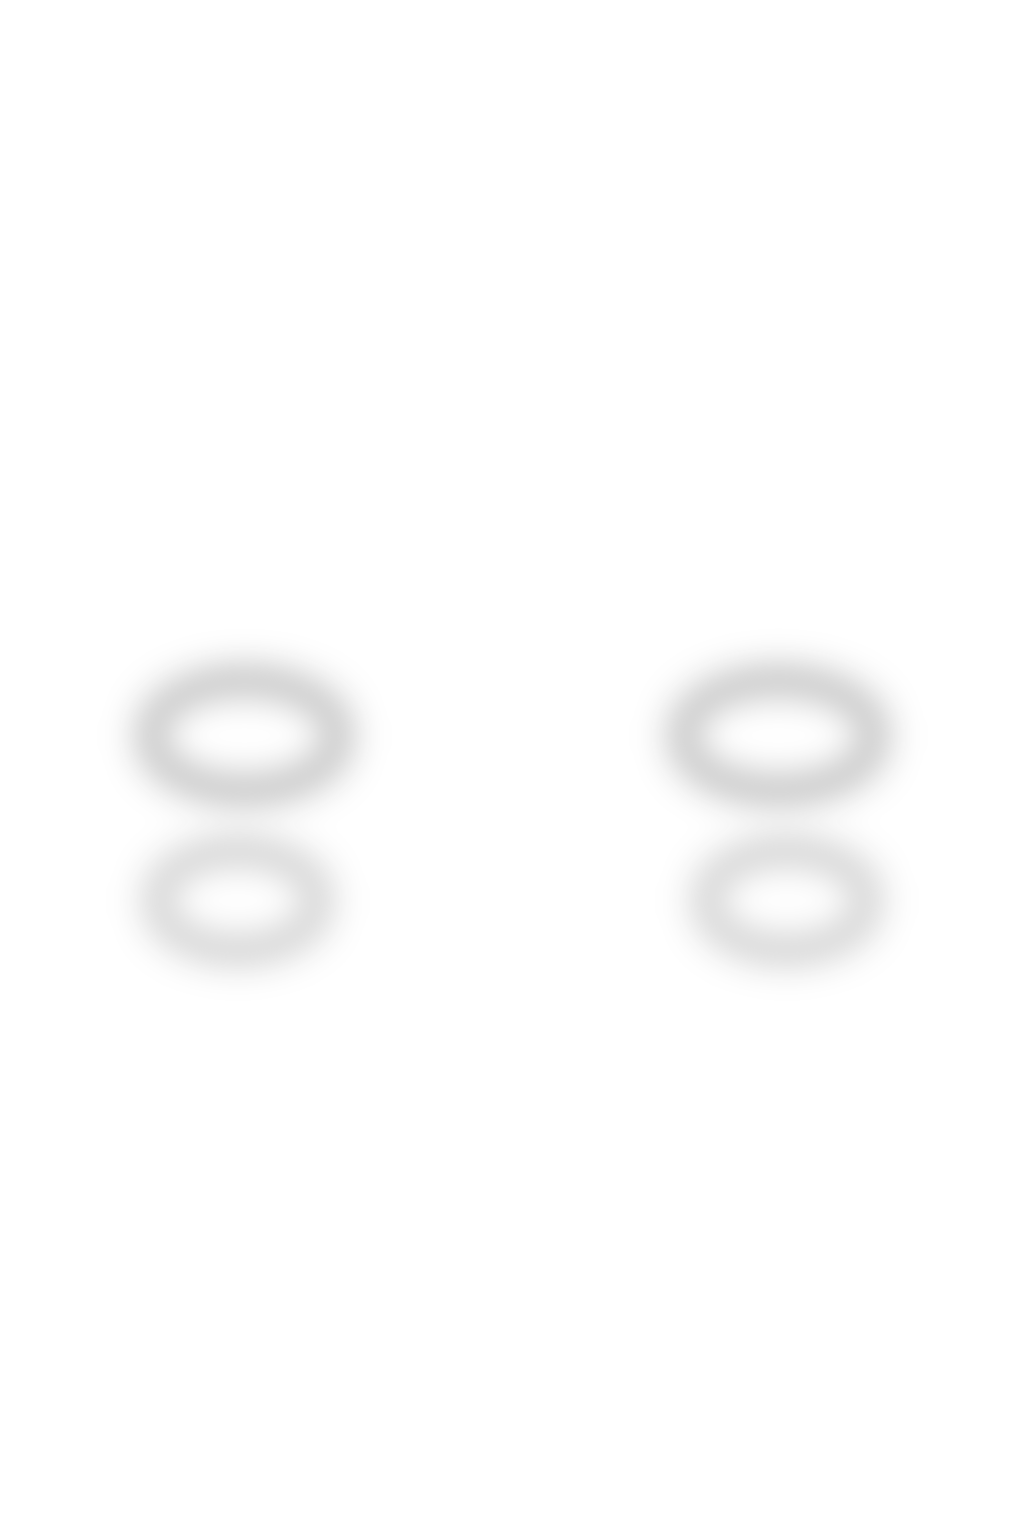
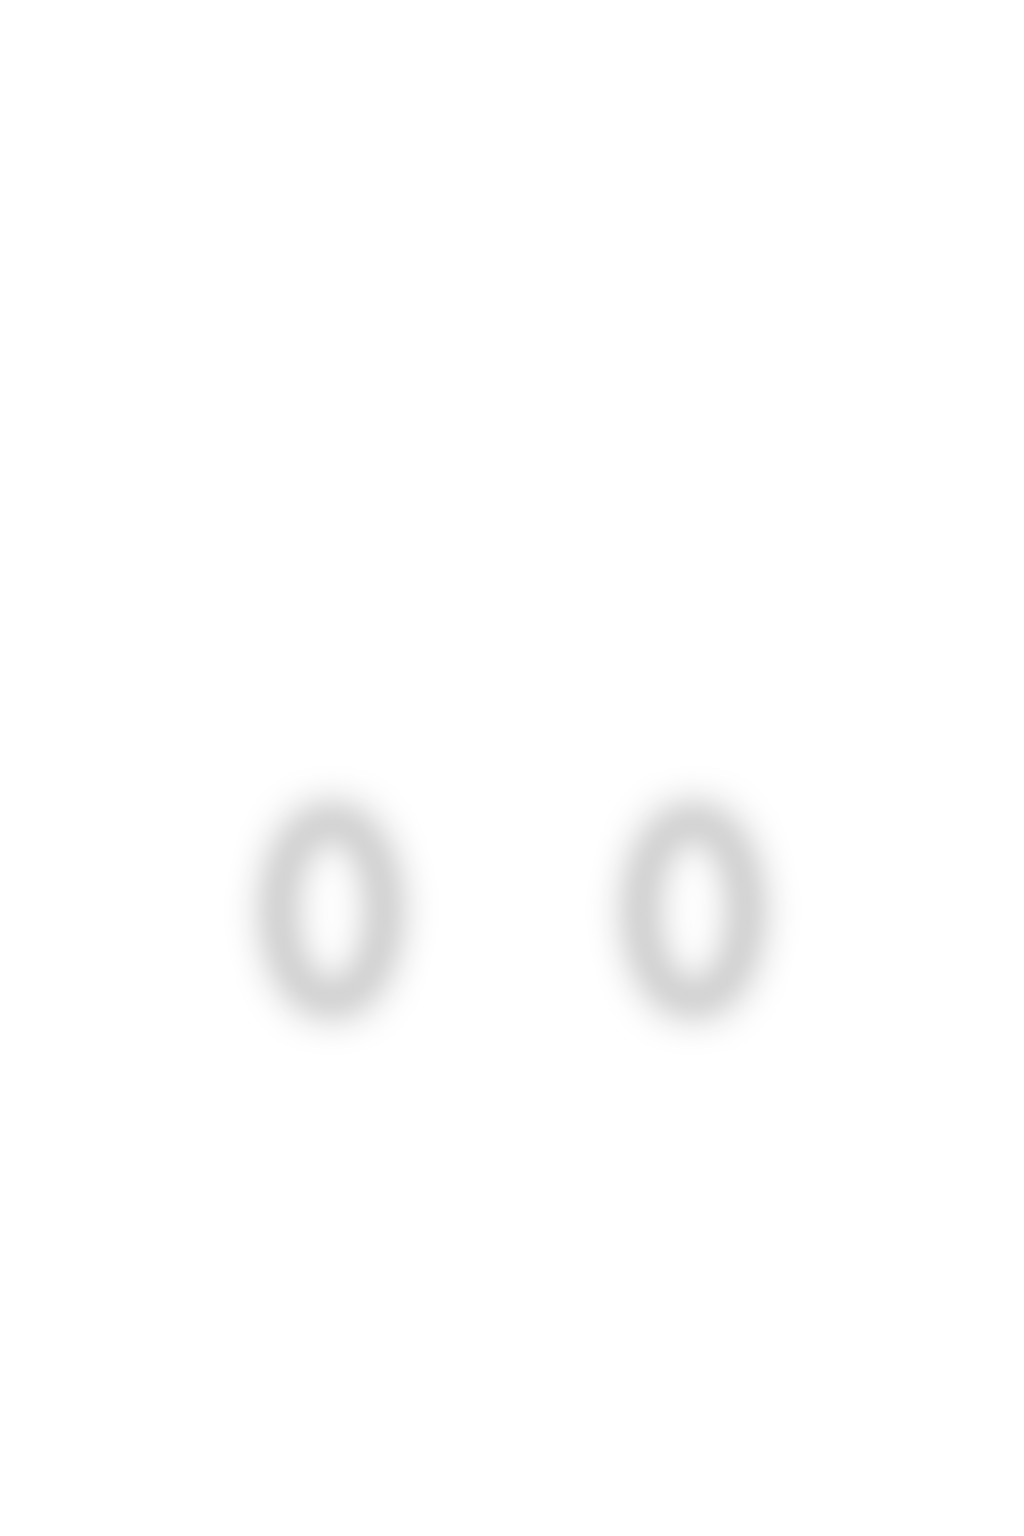
v18

diff --git a/components/generator/MakeupEngine.js b/components/generator/MakeupEngine.js
@@ -1,75 +1,96 @@
 "use client";
 import { useEffect, useRef, useCallback, useState } from "react";
 
-const FACE_W = 1024, FACE_H = 1536;
-
-const MASK_SRCS = {
-  lips:           "/masks/lips-mask.png",
-  blushLeft:      "/masks/blush-left-mask.png",
-  blushRight:     "/masks/blush-right-mask.png",
-  eyeshadowLeft:  "/masks/eyeshadow-left-mask.png",
-  eyeshadowRight: "/masks/eyeshadow-right-mask.png",
-  eyelinerLeft:   "/masks/eyeliner-left-mask.png",
-  eyelinerRight:  "/masks/eyeliner-right-mask.png",
-  mascaraLeft:    "/masks/mascara-left-mask.png",
-  mascaraRight:   "/masks/mascara-right-mask.png",
-  contour:        "/masks/contour-mask.png",
-  highlight:      "/masks/highlight-mask.png",
-};
+/**
+ * MakeupEngine v2
+ * Uses face-landmarks.json (normalized 0-1 coordinates detected from the mannequin)
+ * to draw makeup zones directly as Canvas paths scaled to ANY canvas size.
+ * No PNG masks. Scales perfectly on every screen and resolution.
+ */
 
 function hexToRgb(hex) {
-  try {
-    const h = (hex || "#ff0000").replace("#", "");
-    return [parseInt(h.slice(0,2),16)||0, parseInt(h.slice(2,4),16)||0, parseInt(h.slice(4,6),16)||0];
-  } catch { return [255, 0, 0]; }
+  const h = (hex||"#ff0000").replace("#","");
+  return [parseInt(h.slice(0,2),16)||0, parseInt(h.slice(2,4),16)||0, parseInt(h.slice(4,6),16)||0];
 }
 
 function loadImg(src) {
-  return new Promise((resolve) => {
+  return new Promise(resolve => {
     const img = new window.Image();
     img.onload  = () => resolve(img);
-    img.onerror = () => resolve(null); // never reject — just return null
+    img.onerror = () => resolve(null);
     img.src = src;
   });
 }
 
-// Apply one color layer using a mask, with blend mode
-function applyLayer(ctx, maskImg, color, opacity, blendMode, W, H) {
-  if (!maskImg || !ctx || opacity <= 0) return;
-  try {
-    const [r, g, b] = hexToRgb(color);
+/**
+ * Draw a makeup zone as a soft filled shape on an offscreen canvas.
+ * Returns the offscreen canvas to be composited with a blend mode.
+ */
+function buildZoneCanvas(zone, color, opacity, W, H) {
+  const [r,g,b] = hexToRgb(color);
+  const oc = document.createElement("canvas");
+  oc.width = W; oc.height = H;
+  const ctx = oc.getContext("2d");
 
-    // Offscreen canvas for the mask
-    const mc = document.createElement("canvas");
-    mc.width = W; mc.height = H;
-    const mctx = mc.getContext("2d");
-    mctx.drawImage(maskImg, 0, 0, W, H);
-    const maskData = mctx.getImageData(0, 0, W, H).data;
+  const blur = (zone.blur || 6) * (W / 1024); // scale blur with canvas size
 
-    // Build colored pixels shaped by mask alpha
-    const cc = document.createElement("canvas");
-    cc.width = W; cc.height = H;
-    const cctx = cc.getContext("2d");
-    const colorImg = cctx.createImageData(W, H);
-    const cd = colorImg.data;
+  if (zone.type === "lips") {
+    const cx   = zone.cx   * W;
+    const midY = zone.midY * H;
+    const topY = zone.topY * H;
+    const botY = zone.botY * H;
+    const rx   = zone.rx   * W;
+    const upperRy = zone.upperRy * H;
+    const lowerRy = zone.lowerRy * H;
 
-    for (let i = 0; i < maskData.length; i += 4) {
-      const alpha = (maskData[i + 3] / 255) * (maskData[i] / 255) * opacity;
-      cd[i]     = r;
-      cd[i + 1] = g;
-      cd[i + 2] = b;
-      cd[i + 3] = Math.min(255, Math.round(alpha * 255));
-    }
-    cctx.putImageData(colorImg, 0, 0);
+    ctx.filter = `blur(${blur * 0.4}px)`;
+    // Upper lip
+    ctx.beginPath();
+    ctx.ellipse(cx, midY - upperRy * 0.3, rx, upperRy * 1.1, 0, 0, Math.PI * 2);
+    ctx.fillStyle = `rgba(${r},${g},${b},${opacity})`;
+    ctx.fill();
+    // Lower lip
+    ctx.beginPath();
+    ctx.ellipse(cx, midY + lowerRy * 0.3, rx * 0.95, lowerRy * 1.15, 0, 0, Math.PI * 2);
+    ctx.fillStyle = `rgba(${r},${g},${b},${opacity})`;
+    ctx.fill();
+    ctx.filter = "none";
 
+  } else if (zone.type === "ellipse") {
+    const cx = zone.cx * W;
+    const cy = zone.cy * H;
+    const rx = zone.rx * W;
+    const ry = zone.ry * H;
+
+    // Use radial gradient for soft natural edges
+    const grad = ctx.createRadialGradient(cx, cy, 0, cx, cy, Math.max(rx, ry));
+    grad.addColorStop(0,   `rgba(${r},${g},${b},${opacity})`);
+    grad.addColorStop(0.55,`rgba(${r},${g},${b},${opacity * 0.7})`);
+    grad.addColorStop(1,   `rgba(${r},${g},${b},0)`);
+
+    ctx.filter = `blur(${blur}px)`;
     ctx.save();
-    ctx.globalCompositeOperation = blendMode;
-    ctx.globalAlpha = 1;
-    ctx.drawImage(cc, 0, 0);
+    ctx.scale(1, ry / rx); // squash to ellipse
+    ctx.beginPath();
+    ctx.arc(cx, cy * (rx / ry), rx, 0, Math.PI * 2);
+    ctx.fillStyle = grad;
+    ctx.fill();
     ctx.restore();
-  } catch (e) {
-    console.warn("applyLayer failed:", e);
+    ctx.filter = "none";
   }
+
+  return oc;
+}
+
+/**
+ * Composite a zone canvas onto the main ctx with blend mode.
+ */
+function composite(ctx, zoneCanvas, blendMode) {
+  ctx.save();
+  ctx.globalCompositeOperation = blendMode;
+  ctx.globalAlpha = 1;
+  ctx.drawImage(zoneCanvas, 0, 0);
+  ctx.restore();
 }
 
 const mkState = () => ({
@@ -84,7 +105,7 @@ const mkState = () => ({
 
 export function useMakeupEngine(canvasRef) {
   const faceRef   = useRef(null);
-  const masksRef  = useRef({});
+  const zonesRef  = useRef(null);
   const stateRef  = useRef(mkState());
   const readyRef  = useRef(false);
 
@@ -96,24 +117,24 @@ export function useMakeupEngine(canvasRef) {
     let alive = true;
     async function load() {
       try {
-        const face = await loadImg("/faces/mannequin.png");
-        if (!face) throw new Error("Could not load mannequin image");
+        // Load face image and zone data in parallel
+        const [face, lmRes] = await Promise.all([
+          loadImg("/faces/mannequin.png"),
+          fetch("/face-landmarks.json").then(r => r.json()).catch(() => null),
+        ]);
 
-        const masks = {};
-        await Promise.all(
-          Object.entries(MASK_SRCS).map(async ([k, src]) => {
-            masks[k] = await loadImg(src); // null if failed — handled gracefully
-          })
-        );
-
+        if (!face) throw new Error("Could not load mannequin.png");
+        if (!lmRes) throw new Error("Could not load face-landmarks.json");
         if (!alive) return;
+
         faceRef.current  = face;
-        masksRef.current = masks;
+        zonesRef.current = lmRes.zones;
         readyRef.current = true;
         setReady(true);
         setLoading(false);
       } catch (e) {
         if (!alive) return;
+        console.error("MakeupEngine:", e);
         setError(e.message);
         setLoading(false);
       }
@@ -125,63 +146,80 @@ export function useMakeupEngine(canvasRef) {
   const render = useCallback(() => {
     const canvas = canvasRef.current;
     const face   = faceRef.current;
-    if (!canvas || !face || !readyRef.current) return;
+    const zones  = zonesRef.current;
+    if (!canvas || !face || !zones || !readyRef.current) return;
 
     try {
-      const W = FACE_W, H = FACE_H;
+      // Always render at native face resolution for max quality
+      const W = face.naturalWidth  || 1024;
+      const H = face.naturalHeight || 1536;
       canvas.width  = W;
       canvas.height = H;
       const ctx = canvas.getContext("2d");
       const s   = stateRef.current;
-      const m   = masksRef.current;
 
       // 1. Base face
       ctx.clearRect(0, 0, W, H);
       ctx.drawImage(face, 0, 0, W, H);
 
-      // 2. Contour — multiply darkens naturally
-      applyLayer(ctx, m.contour, s.contourColor, s.contourOpacity, "multiply", W, H);
+      // 2. Contour (multiply — darkens hollows naturally)
+      if (s.contourOpacity > 0) {
+        composite(ctx, buildZoneCanvas(zones.left_contour,  s.contourColor, s.contourOpacity * 0.7, W, H), "multiply");
+        composite(ctx, buildZoneCanvas(zones.right_contour, s.contourColor, s.contourOpacity * 0.7, W, H), "multiply");
+      }
 
-      // 3. Blush — soft-light for natural warmth
-      applyLayer(ctx, m.blushLeft,  s.blushColor, s.blushOpacity, "soft-light", W, H);
-      applyLayer(ctx, m.blushRight, s.blushColor, s.blushOpacity, "soft-light", W, H);
+      // 3. Blush (soft-light — warm natural flush)
+      if (s.blushOpacity > 0) {
+        composite(ctx, buildZoneCanvas(zones.left_blush,  s.blushColor, s.blushOpacity * 0.8, W, H), "soft-light");
+        composite(ctx, buildZoneCanvas(zones.right_blush, s.blushColor, s.blushOpacity * 0.8, W, H), "soft-light");
+      }
 
-      // 4. Eyeshadow — multiply for depth, overlay for vibrancy
-      applyLayer(ctx, m.eyeshadowLeft,  s.eyeColor, s.eyeOpacity * 0.85, "multiply", W, H);
-      applyLayer(ctx, m.eyeshadowRight, s.eyeColor, s.eyeOpacity * 0.85, "multiply", W, H);
-      applyLayer(ctx, m.eyeshadowLeft,  s.eyeColor, s.eyeOpacity * 0.40, "overlay",  W, H);
-      applyLayer(ctx, m.eyeshadowRight, s.eyeColor, s.eyeOpacity * 0.40, "overlay",  W, H);
+      // 4. Eyeshadow (multiply for depth + overlay for colour)
+      if (s.eyeOpacity > 0) {
+        composite(ctx, buildZoneCanvas(zones.left_eyeshadow,  s.eyeColor, s.eyeOpacity * 0.75, W, H), "multiply");
+        composite(ctx, buildZoneCanvas(zones.right_eyeshadow, s.eyeColor, s.eyeOpacity * 0.75, W, H), "multiply");
+        composite(ctx, buildZoneCanvas(zones.left_eyeshadow,  s.eyeColor, s.eyeOpacity * 0.35, W, H), "overlay");
+        composite(ctx, buildZoneCanvas(zones.right_eyeshadow, s.eyeColor, s.eyeOpacity * 0.35, W, H), "overlay");
+      }
 
-      // 5. Eyeliner — multiply, near black
-      applyLayer(ctx, m.eyelinerLeft,  "#080202", s.eyelinerOpacity, "multiply", W, H);
-      applyLayer(ctx, m.eyelinerRight, "#080202", s.eyelinerOpacity, "multiply", W, H);
+      // 5. Eyeliner (multiply, precise)
+      if (s.eyelinerOpacity > 0) {
+        composite(ctx, buildZoneCanvas(zones.left_eyeliner,  "#0a0305", s.eyelinerOpacity * 0.9, W, H), "multiply");
+        composite(ctx, buildZoneCanvas(zones.right_eyeliner, "#0a0305", s.eyelinerOpacity * 0.9, W, H), "multiply");
+      }
 
-      // 6. Mascara — multiply, darken lash zone
-      applyLayer(ctx, m.mascaraLeft,  "#060101", s.mascaraOpacity, "multiply", W, H);
-      applyLayer(ctx, m.mascaraRight, "#060101", s.mascaraOpacity, "multiply", W, H);
+      // 6. Mascara (multiply, lash line)
+      if (s.mascaraOpacity > 0) {
+        composite(ctx, buildZoneCanvas(zones.left_mascara,  "#060102", s.mascaraOpacity * 0.85, W, H), "multiply");
+        composite(ctx, buildZoneCanvas(zones.right_mascara, "#060102", s.mascaraOpacity * 0.85, W, H), "multiply");
+      }
 
-      // 7. Highlight — screen brightens peaks
-      applyLayer(ctx, m.highlight, "#f8e8c0", s.highlightOpacity, "screen", W, H);
+      // 7. Highlight (screen — brightens cheekbones)
+      if (s.highlightOpacity > 0) {
+        composite(ctx, buildZoneCanvas(zones.left_highlight,  "#f8e8c0", s.highlightOpacity * 0.7, W, H), "screen");
+        composite(ctx, buildZoneCanvas(zones.right_highlight, "#f8e8c0", s.highlightOpacity * 0.7, W, H), "screen");
+        composite(ctx, buildZoneCanvas(zones.nose_highlight,  "#f8f0d8", s.highlightOpacity * 0.5, W, H), "screen");
+      }
 
-      // 8. Lipstick — multiply + overlay + screen sheen
-      applyLayer(ctx, m.lips, s.lipColor, s.lipOpacity * 0.75, "multiply", W, H);
-      applyLayer(ctx, m.lips, s.lipColor, s.lipOpacity * 0.55, "overlay",  W, H);
-      applyLayer(ctx, m.lips, "#ffffff",  s.lipOpacity * 0.12, "screen",   W, H);
+      // 8. Lips (multiply + overlay + screen sheen — triple pass for depth)
+      if (s.lipOpacity > 0) {
+        composite(ctx, buildZoneCanvas(zones.lips, s.lipColor, s.lipOpacity * 0.70, W, H), "multiply");
+        composite(ctx, buildZoneCanvas(zones.lips, s.lipColor, s.lipOpacity * 0.50, W, H), "overlay");
+        composite(ctx, buildZoneCanvas(zones.lips, "#ffffff",  s.lipOpacity * 0.10, W, H), "screen");
+      }
 
     } catch (e) {
       console.warn("MakeupEngine render error:", e);
     }
   }, [canvasRef]);
 
-  // Render once assets are ready
-  useEffect(() => {
-    if (ready) render();
-  }, [ready]); // eslint-disable-line
+  // Render once assets load
+  useEffect(() => { if (ready) render(); }, [ready]); // eslint-disable-line
 
-  const update = (changes) => {
+  const update = useCallback((changes) => {
     Object.assign(stateRef.current, changes);
     render();
-  };
+  }, [render]);
 
   return {
     ready, loading, error,
